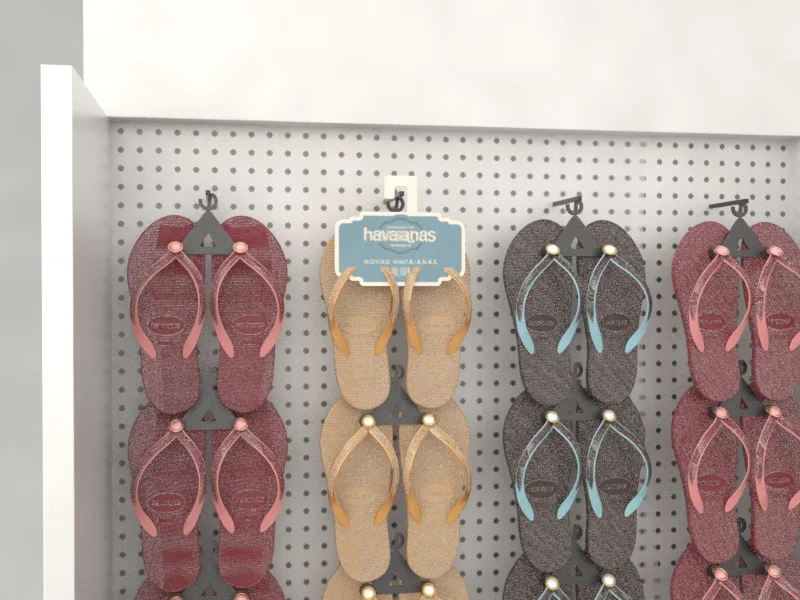
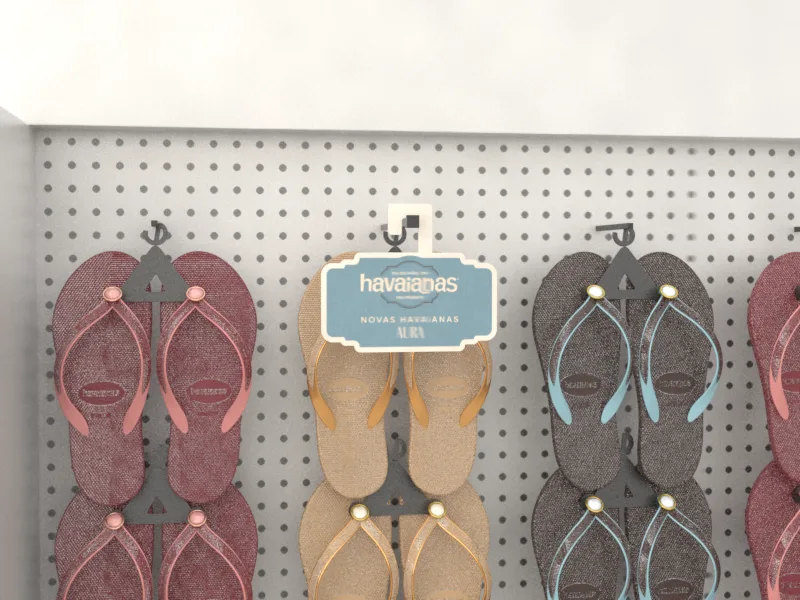
Havaianas Aura: tag pendurada na haste à frente do par; KV maior no fechamento

diff --git a/havaianas-aura-maes-75lab/index.html b/havaianas-aura-maes-75lab/index.html
@@ -9,7 +9,7 @@
 <meta name="robots" content="noindex">
 <link rel="preconnect" href="https://fonts.googleapis.com"><link rel="preconnect" href="https://fonts.gstatic.com" crossorigin>
 <link href="https://fonts.googleapis.com/css2?family=Big+Shoulders+Display:wght@700;900&family=Space+Grotesk:wght@400;500;600;700&family=Space+Mono:wght@400;700&display=swap" rel="stylesheet">
-<link rel="stylesheet" href="assets/deck.css"><link rel="stylesheet" href="assets/bombril.css"><link rel="stylesheet" href="assets/v2.css"><link rel="stylesheet" href="assets/havaianas.css?v=202611242232">
+<link rel="stylesheet" href="assets/deck.css"><link rel="stylesheet" href="assets/bombril.css"><link rel="stylesheet" href="assets/v2.css"><link rel="stylesheet" href="assets/havaianas.css?v=202611242258">
 </head>
 <body>
 <svg width="0" height="0" style="position:absolute" aria-hidden="true">
@@ -214,6 +214,6 @@
 <div id="cursor"></div><div id="anel"><span id="anelTxt"></span></div>
 <div id="gire"><img src="assets/75lab-lime.png" alt="75 LAB"><div class="tel"></div><h3>Gire o celular</h3><p>A apresentação foi desenhada na horizontal. Deitado, o celular mostra a tela inteira.</p><button class="botao mini" id="verAssim">Ver assim mesmo</button></div>
 <script src="assets/deck.js"></script>
-<script src="assets/havaianas.js?v=202611242232"></script>
+<script src="assets/havaianas.js?v=202611242258"></script>
 </body>
 </html>

diff --git a/havaianas-aura-maes-75lab/assets/havaianas.css b/havaianas-aura-maes-75lab/assets/havaianas.css
@@ -320,3 +320,4 @@ html.exec-on,html.exec-on body{overflow:hidden}
 .bn-cores button[data-vcor=rs].on{background:#E07F80;border-color:#E07F80;color:#2A1414}
 .bn-p .bn-fotos[data-cor]{display:none}
 .bn-p[data-ver=az] .bn-fotos[data-cor=az],.bn-p[data-ver=rs] .bn-fotos[data-cor=rs]{display:grid}
+#fim .foto{left:34%!important;right:0!important;top:5%!important;bottom:11%!important}#fim .texto{max-width:500px}#fim h1{font-size:clamp(60px,7.2vw,118px)}
